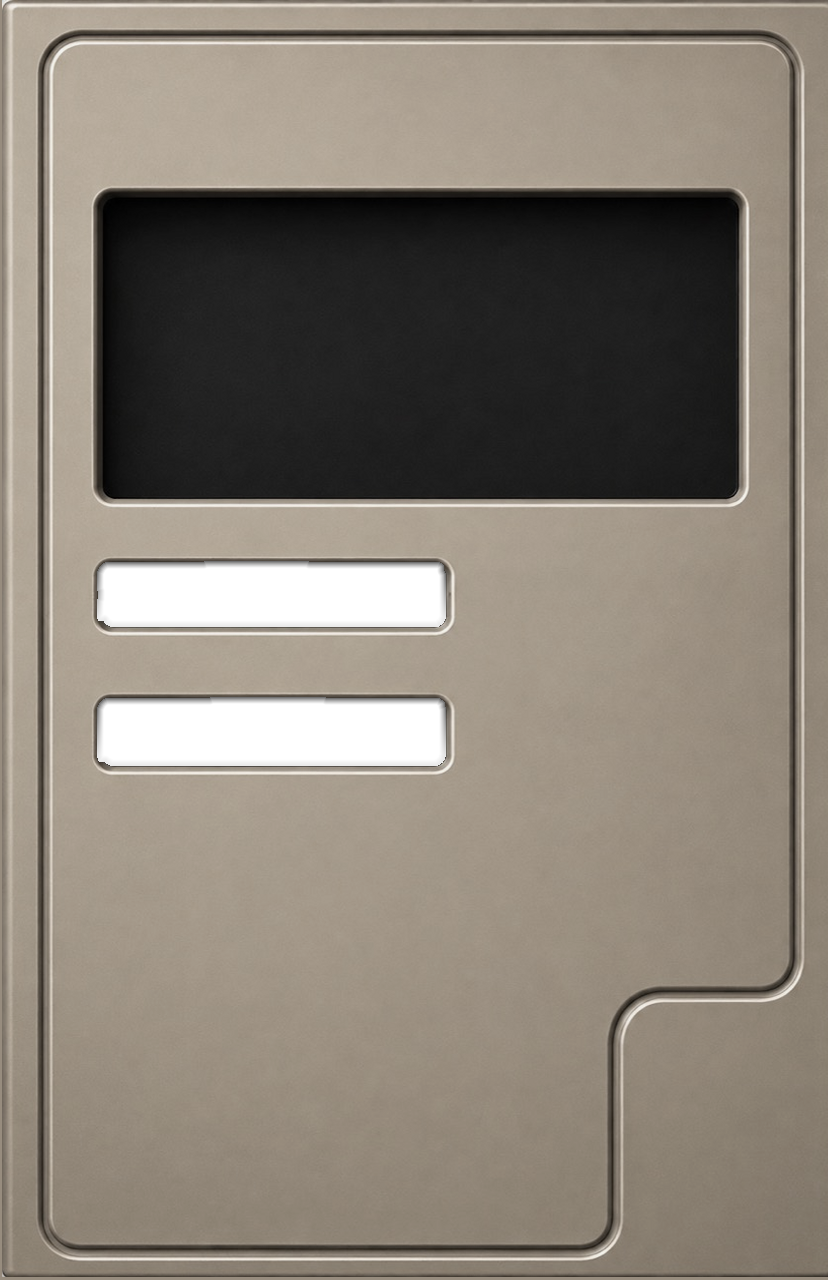
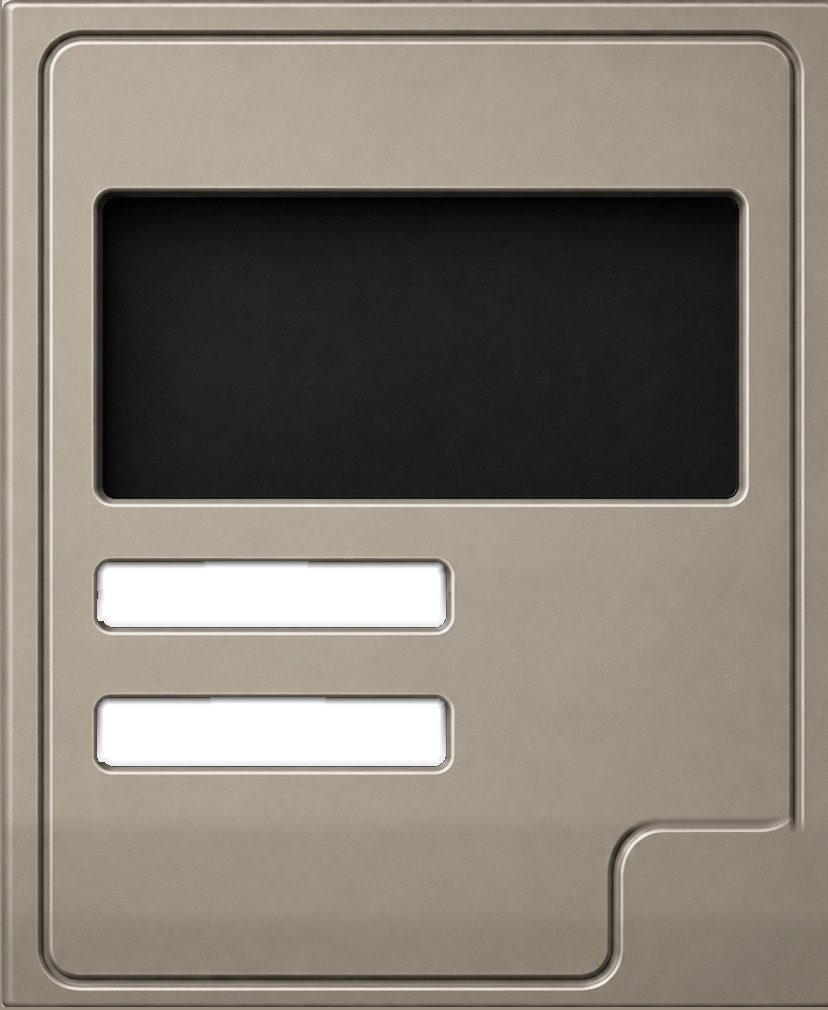
plugin face: structural reset - 352x429 on a spliced plate, COLOR row deleted, KEY reads OFF with the heard key offered, 1 px mint trace on the locked graticule, silver readouts, wheel lamp in the curve mint and no glow outside the recess, hierarchy reset; test knobs for strip/scale/morph
Claude-Session: https://claude.ai/code/session_011QgahbJmX6EjV1yznRqT2r

diff --git a/plugin/source/ui/GraphDisplay.h b/plugin/source/ui/GraphDisplay.h
@@ -173,25 +173,43 @@ public:
             juce::Path face = recessPath (glass, 0.0f);
             juce::Graphics::ScopedSaveState save (g);
             g.reduceClipRegion (face);
-            if (displayPlate.isNull())
-                displayPlate = juce::ImageCache::getFromMemory (BinaryData::display_bitmap4613_png,
-                                                                BinaryData::display_bitmap4613_pngSize);
+            {
+                juce::ColourGradient phosphorBed (juce::Colour (0xff0c1412), 0.0f, glass.getY(),
+                                                  juce::Colour (0xff050908), 0.0f, glass.getBottom(), false);
+                g.setGradientFill (phosphorBed);
+                g.fillRect (glass.expanded (1.0f));
+            }
+            if (gridPlate.isNull())
+                gridPlate = juce::ImageCache::getFromMemory (BinaryData::trench_display_grid_png,
+                                                             BinaryData::trench_display_grid_pngSize);
             {
                 juce::Graphics::ScopedSaveState samplingState (g);
                 g.setImageResamplingQuality (juce::Graphics::highResamplingQuality);
-                g.drawImage (displayPlate, glass.expanded (1.0f),
-                             juce::RectanglePlacement::stretchToFit, false);
+                g.setOpacity (0.12f);
+                g.drawImage (gridPlate, glass, juce::RectanglePlacement::stretchToFit, false);
             }
             {
                 juce::ColourGradient vig (juce::Colours::transparentBlack, glass.getCentreX(), glass.getCentreY(),
                                           juce::Colours::black.withAlpha (0.38f), glass.getX(), glass.getY(), true);
                 g.setGradientFill (vig);
                 g.fillRect (glass.expanded (1.0f));
-                juce::ColourGradient gloss (juce::Colours::white.withAlpha (0.13f), 0.0f, glass.getY(),
-                                            juce::Colours::transparentWhite, 0.0f, glass.getY() + glass.getHeight() * 0.42f, false);
-                gloss.addColour (0.55, juce::Colours::white.withAlpha (0.05f));
+                juce::ColourGradient lip (juce::Colours::black.withAlpha (0.62f), 0.0f, glass.getY(),
+                                          juce::Colours::transparentBlack, 0.0f, glass.getY() + 9.0f, false);
+                g.setGradientFill (lip);
+                g.fillRect (glass.withHeight (9.0f));
+                juce::ColourGradient lipL (juce::Colours::black.withAlpha (0.34f), glass.getX(), 0.0f,
+                                           juce::Colours::transparentBlack, glass.getX() + 6.0f, 0.0f, false);
+                g.setGradientFill (lipL);
+                g.fillRect (glass.withWidth (6.0f));
+                juce::ColourGradient lipR (juce::Colours::black.withAlpha (0.22f), glass.getRight(), 0.0f,
+                                           juce::Colours::transparentBlack, glass.getRight() - 5.0f, 0.0f, false);
+                g.setGradientFill (lipR);
+                g.fillRect (glass.withLeft (glass.getRight() - 5.0f));
+                juce::ColourGradient gloss (juce::Colours::white.withAlpha (0.17f), 0.0f, glass.getY(),
+                                            juce::Colours::transparentWhite, 0.0f, glass.getY() + glass.getHeight() * 0.34f, false);
+                gloss.addColour (0.45, juce::Colours::white.withAlpha (0.06f));
                 g.setGradientFill (gloss);
-                g.fillRect (glass.withHeight (glass.getHeight() * 0.42f));
+                g.fillRect (glass.withHeight (glass.getHeight() * 0.34f));
             }
             {
 
@@ -231,7 +249,7 @@ private:
 
     static juce::Path recessPath (juce::Rectangle<float> r, float e)
     {
-        constexpr float rTL = 5.5f, rTR = 2.8f, rBL = 4.3f, rBR = 4.7f;
+        constexpr float rTL = 1.3f, rTR = 1.3f, rBL = 1.3f, rBR = 1.3f;
         const float x0 = r.getX() - e, y0 = r.getY() - e;
         const float x1 = r.getRight() + e, y1 = r.getBottom() + e;
         const auto k = [e] (float rad) { return juce::jmax (0.5f, rad + e); };
@@ -380,7 +398,6 @@ private:
                               juce::PathStrokeType::butt });
     }
     Theme t;
-    mutable juce::Image displayPlate;
     mutable juce::Image gridPlate;
     juce::Path responsePath;
 

diff --git a/plugin/source/ui/Theme.h b/plugin/source/ui/Theme.h
@@ -4,8 +4,8 @@
 #include <cstdlib>
 namespace trench::ui
 {
-inline constexpr int   kEditorWidth        = 326;
-inline constexpr int   kEditorHeight       = 503;
+inline constexpr int   kEditorWidth        = 352;
+inline constexpr int   kEditorHeight       = 429;
 inline constexpr int   kEditorHeightClosed = 361;
 
 inline constexpr int   kBayValueWidth      = 46;
@@ -13,14 +13,14 @@ inline constexpr int   kBaySourceWidth     = 116;
 inline constexpr int   kBaySourceHeight    = 20;
 
 inline constexpr float kLabelPt            = 12.0f;
-inline constexpr float kValuePt            = 13.0f;
+inline constexpr float kValuePt            = 14.0f;
 inline constexpr int   kRowH               = 26;
 inline constexpr float kBayValuePt         = kValuePt;
 inline constexpr int   kBayValueHeight     = 18;
 
 inline constexpr float kBayKnobDiameter    = 32.0f;
 inline constexpr float kPanelSourceWidth   = 1010.0f;
-inline constexpr float kPanelSourceHeight  = 1557.0f;
+inline constexpr float kPanelSourceHeight  = 1232.0f;
 inline juce::Rectangle<float> sourceRectToEditor (juce::Rectangle<float> s)
 {
     return { s.getX() * kEditorWidth  / kPanelSourceWidth,
@@ -53,7 +53,7 @@ inline juce::Font displayFont (float height, bool emphasis = false)
                                           useSyntheticBold ? juce::Font::bold : juce::Font::plain));
 }
 inline constexpr float kPlateWordPt    = kLabelPt;
-inline constexpr float kMicroCaptionPt = 8.6f;
+inline constexpr float kMicroCaptionPt = 10.0f;
 inline juce::Font telemetryFont (float height, bool emphasis = false)
 {
 
@@ -63,7 +63,7 @@ struct Theme
 {
     const trench::UiLayout& layout;
     juce::Colour accent()      const { return layout.colour ("accent",      juce::Colour (0xff3cc8be)); }
-    juce::Colour curveColour() const { return layout.colour ("curveColour", juce::Colour (0xff3cc8be)); }
+    juce::Colour curveColour() const { return layout.colour ("curveColour", juce::Colour (0xffbef0d7)); }
     juce::Colour curveHighlight() const { return layout.colour ("curveHighlight", juce::Colour (0xffe6fff4)); }
     juce::Colour telemetry() const { return layout.colour ("telemetry", juce::Colour (0xff608074)); }
     juce::Colour rollerIllumination() const { return layout.colour ("rollerIllumination", juce::Colour (0xff3cc8be)); }
@@ -113,14 +113,14 @@ inline void drawFrostedGlassControl (juce::Graphics& g, juce::Rectangle<float> r
                                      float radius, bool isActive, const Theme& t)
 {
         const auto face = r.reduced (0.35f);
-    const auto top    = juce::Colour (0xffc3d1df);
-    const auto middle = juce::Colour (0xffb2c3d5);
-    const auto bottom = juce::Colour (0xffa5b8cc);
+    const auto top    = juce::Colour (0xffcbcdd0);
+    const auto middle = juce::Colour (0xffbabcbf);
+    const auto bottom = juce::Colour (0xffabadb0);
     const float faceRad = juce::jmax (2.0f, radius - 1.3f);
     {
-        juce::ColourGradient edge (juce::Colour (0xffe6eef6), 0.0f, face.getY(),
-                                   juce::Colour (0xff4f545a), 0.0f, face.getBottom(), false);
-        edge.addColour (0.5, juce::Colour (0xff9aabbd));
+        juce::ColourGradient edge (juce::Colour (0xffeceef0), 0.0f, face.getY(),
+                                   juce::Colour (0xff4f5255), 0.0f, face.getBottom(), false);
+        edge.addColour (0.5, juce::Colour (0xffa2a5a9));
         g.setGradientFill (edge);
         g.fillRoundedRectangle (face, faceRad);
     }

diff --git a/plugin/tests/PluginTests.cpp b/plugin/tests/PluginTests.cpp
@@ -4,7 +4,6 @@
 #include "TrenchBodyRoster.h"
 #include "dsp/PreampLaw.h"
 #include "ui/GlassWords.h"
-#include "ui/BayKnob.h"
 #include "ui/KeySnapBox.h"
 #include <juce_gui_basics/juce_gui_basics.h>
 #include <cmath>
@@ -224,7 +223,7 @@ int main()
                 int n = 0; trench::bodyRoster (n);
                 for (int i = 0; i < n; ++i)
                     if (trench::bodyDisplayName (i).containsIgnoreCase (std::getenv ("TRENCH_MEASURE"))) { setParam (processor, ParamID::body, (float) i); break; }
-                setParam (processor, ParamID::morph, 0.44f);
+                setParam (processor, ParamID::morph, std::getenv ("TRENCH_MORPH") != nullptr ? (float) std::atof (std::getenv ("TRENCH_MORPH")) : 0.44f);
             }
             else
                 setParam (processor, ParamID::body, (float) trench::kDefaultBodyIndex);
@@ -242,18 +241,19 @@ int main()
     check (editor->getWidth() == trench::ui::kEditorWidth && editor->getHeight() == trench::ui::kEditorHeight,
            "editor is at DAW size", editor->getWidth(), editor->getHeight());
     auto* words = findChild<trench::ui::GlassWords> (*editor);
-    auto* c1 = findChild<trench::ui::BayKnob> (*editor, "Color 1");
-    auto* c3 = findChild<trench::ui::BayKnob> (*editor, "Color 3");
     auto* keyBox = findChild<trench::ui::KeySnapBox> (*editor);
-    check (words != nullptr && c1 != nullptr && c3 != nullptr && keyBox != nullptr && keyBox->isShowing(), "Modulation chip, KEY box, three slots exist");
-    if (words == nullptr || c1 == nullptr || c3 == nullptr)
+    check (words != nullptr && keyBox != nullptr && keyBox->isShowing(), "Modulation chip and KEY box exist");
+    if (words == nullptr)
         return 1;
-    check (words->isShowing() && c1->isShowing() && c3->isShowing(), "Modulation, KEY, and the three slots are always on the face");
-    for (const char* gone : { "Input", "Bite", "Follow", "Movement", "Output", "Low", "Division", "Section", "Generator" })
+    check (words->isShowing(), "Modulation and KEY are always on the face");
+    for (const char* gone : { "Input", "Bite", "Follow", "Color 1", "Color 2", "Color 3", "Movement", "Output", "Low", "Division", "Section", "Generator" })
         check (! anyVisibleOfTitle (*editor, gone), (juce::String ("absent from the face: ") + gone).toRawUTF8());
-    check (c1->getHeight() >= 24 && words->getHeight() >= 18, "rows are legible", c1->getHeight(), words->getHeight());
+    check (words->getHeight() >= 18, "rows are legible", words->getHeight(), 18);
     pump (150);
-    savePng (holder.createComponentSnapshot (holder.getLocalBounds()), "trench_face_main.png");
+    {
+        const float shotScale = std::getenv ("TRENCH_SHOT_SCALE") != nullptr ? (float) std::atof (std::getenv ("TRENCH_SHOT_SCALE")) : 1.0f;
+        savePng (holder.createComponentSnapshot (holder.getLocalBounds(), true, juce::jmax (1.0f, shotScale)), "trench_face_main.png");
+    }
     setParam (processor, ParamID::movePreset, 1.0f);
     pump (150);
     savePng (holder.createComponentSnapshot (holder.getLocalBounds()), "trench_face_gen_on.png");

diff --git a/plugin/source/ui/KeySnapBox.h b/plugin/source/ui/KeySnapBox.h
@@ -18,8 +18,8 @@ public:
         setInterceptsMouseClicks (true, false);
         setMouseCursor (juce::MouseCursor::PointingHandCursor);
         setTitle ("Key Snap");
-        setHelpText ("AUTO: listens and applies the detected key live. Click to lock it; click the locked key to return to AUTO.");
-        setTooltip ("KEY is AUTO: the detected key is applied as it is heard. Click to lock, click again for AUTO");
+        setHelpText ("KEY OFF leaves the body as authored. A heard key is offered beside it; click it to lock, click the locked key to return to OFF.");
+        setTooltip ("KEY: OFF by default. Click the heard key to lock it; click again for OFF");
         if (param != nullptr)
             attachment = std::make_unique<juce::ParameterAttachment> (
                 *param, [this] (float) { repaint(); });
@@ -140,7 +140,7 @@ public:
             const auto ink = juce::Colour (0xff2a2722);
             const bool locked = currentChoice() != 0;
             const auto b = getLocalBounds().toFloat();
-            const auto bigFont   = displayFont (10.4f, false);
+            const auto bigFont   = displayFont (11.8f, false);
             const auto smallFont = displayFont (10.5f, false);
             compactAlt = {};
             float x = b.getRight();
@@ -156,23 +156,21 @@ public:
                 return box;
             };
 
-            if (locked)
             {
-
-                const auto text = shortChoiceText (currentChoice());
+                const auto text = locked ? shortChoiceText (currentChoice()) : juce::String ("OFF");
                 const auto box = valueBox (text, bigFont);
-
                 g.setFont (bigFont);
-                g.setColour (juce::Colour (0xff2a2722));
+                g.setColour (ink.withAlpha (locked ? 1.0f : 0.80f));
                 g.drawText (text, box.toNearestInt(), juce::Justification::centred, false);
             }
-            else if (showingSuggestion)
+            if (! locked && showingSuggestion)
             {
-
+                x -= 4.0f;
                 const auto text = shortSuggestionText (first);
                 const auto box = valueBox (text, bigFont);
+                compactAlt = box;
                 g.setFont (bigFont);
-                g.setColour (juce::Colours::black.withAlpha (hoveredCandidate >= 0 ? 0.95f : 0.55f));
+                g.setColour (ink.withAlpha (hoveredCandidate >= 0 ? 0.95f : 0.45f));
                 g.drawText (text, box.toNearestInt(), juce::Justification::centred, false);
             }
             g.setFont (t.smallLabel());
@@ -274,7 +272,7 @@ private:
         if (currentChoice() != 0 || suggestion (primarySuggestion) < 0)
             return -1;
         if (getHeight() < 26)
-            return ! compactAlt.isEmpty() && compactAlt.contains (point) ? 1 : 0;
+            return ! compactAlt.isEmpty() && compactAlt.contains (point) ? 0 : -1;
         if (juce::Rectangle<float> (8.0f, 11.0f, 33.0f, 26.0f).contains (point))
             return 0;
         if (juce::Rectangle<float> (47.0f, 12.0f, 33.0f, 25.0f).contains (point))

diff --git a/plugin/source/UiLayout.h b/plugin/source/UiLayout.h
@@ -24,29 +24,28 @@ public:
         layout.elements["qWheel"]       = { { 109.8f, 840.5f, 442.8f, 103.4f }, {}, {} };
         layout.elements["typeSelector"] = { { 230.0f, 139.0f, 666.6f, 68.0f },  {}, {} };
 
-        layout.elements["colorRow"]     = { { 126.9f, 978.1f, 769.7f, 247.6f }, {}, {} };
         layout.elements["keyBox"]       = { { 551.6f, 65.0f, 345.0f, 62.0f }, {}, {} };
 
-        layout.elements["morphReadout"] = { { 574.6f, 697.0f, 142.5f, 55.7f },  12.0f, juce::Colour (0xff2a2722) };
-        layout.elements["qReadout"]     = { { 574.6f, 864.3f, 142.5f, 55.7f },  12.0f, juce::Colour (0xff2a2722) };
+        layout.elements["morphReadout"] = { { 574.6f, 697.0f, 142.5f, 55.7f },  17.0f, juce::Colour (0xff2a2722) };
+        layout.elements["qReadout"]     = { { 574.6f, 864.3f, 142.5f, 55.7f },  17.0f, juce::Colour (0xff2a2722) };
 
-        layout.elements["spectrumGrid"] = { { 126.9f, 227.8f, 769.7f, 383.7f }, {}, {} };
+        layout.elements["spectrumGrid"] = { { 126.9f, 232.3f, 769.7f, 374.7f }, {}, {} };
 
-        layout.elements["typeLabel"]    = { { 126.9f, 139.0f, 97.0f, 68.0f },  15.0f, juce::Colour (0xff2a2722) };
+        layout.elements["typeLabel"]    = { { 126.9f, 139.0f, 97.0f, 68.0f },  14.5f, juce::Colour (0xff2a2722) };
         layout.elements["typeLabel"].text = "BODY";
 
-        layout.elements["typeName"]     = { { 244.0f, 143.0f, 522.0f, 64.0f },  18.0f, juce::Colour (0xff2a2722) };
+        layout.elements["typeName"]     = { { 244.0f, 143.0f, 522.0f, 64.0f },  20.0f, juce::Colour (0xff2a2722) };
         layout.elements["typeArrow"]    = { { 841.6f, 143.0f, 52.0f,  64.0f },  {}, {} };
-        layout.elements["morphLabel"]   = { { 109.8f, 640.0f, 442.8f, 38.0f },  17.0f, juce::Colour (0xff2a2722) };
+        layout.elements["morphLabel"]   = { { 109.8f, 640.0f, 442.8f, 38.0f },  14.5f, juce::Colour (0xff2a2722) };
         layout.elements["morphLabel"].text = "MORPH";
-        layout.elements["qLabel"]       = { { 109.8f, 798.0f, 442.8f, 38.0f },  17.0f, juce::Colour (0xff2a2722) };
+        layout.elements["qLabel"]       = { { 109.8f, 798.0f, 442.8f, 38.0f },  14.5f, juce::Colour (0xff2a2722) };
         layout.elements["qLabel"].text = "Q";
 
-        layout.elements["brandLabel"]   = { { 126.9f, 73.0f, 230.0f, 44.0f }, 18.5f, juce::Colour (0xff0f0c09) };
+        layout.elements["brandLabel"]   = { { 126.9f, 73.0f, 230.0f, 44.0f }, 24.0f, juce::Colour (0xff0f0c09) };
 
         layout.elements["brandLabel"].text = "TRENCH";
         layout.colours["accent"]             = juce::Colour (0xff3cc8be);
-        layout.colours["curveColour"]        = juce::Colour (0xff3cc8be);
+        layout.colours["curveColour"]        = juce::Colour (0xffbef0d7);
         layout.colours["curveHighlight"]     = juce::Colour (0xffe6fff4);
         layout.colours["telemetry"]          = juce::Colour (0xff608074);
         layout.colours["dashed"]             = juce::Colour (0xff608074);

diff --git a/plugin/source/PluginEditor.cpp b/plugin/source/PluginEditor.cpp
@@ -1,4 +1,5 @@
 #include "PluginEditor.h"
+#include <cstdlib>
 #include "BinaryData.h"
 #include "TrenchBodyRoster.h"
 using namespace trench::ui;
@@ -29,6 +30,8 @@ PluginEditor::PluginEditor (PluginProcessor& p)
                                                   BinaryData::df2_panel_beige_pngSize);
     auto strip = juce::ImageCache::getFromMemory (BinaryData::trench_roller_strip_png,
                                                   BinaryData::trench_roller_strip_pngSize);
+    if (const char* override = std::getenv ("TRENCH_WHEEL_STRIP"))
+        strip = juce::ImageFileFormat::loadFrom (juce::File (juce::String::fromUTF8 (override)));
     faceplate = std::make_unique<FaceplateView> (panel, theme);
     faceplate->setBufferedToImage (true);
     graph = std::make_unique<GraphDisplay> (theme, processor.apvts, juce::String());
@@ -54,9 +57,6 @@ PluginEditor::PluginEditor (PluginProcessor& p)
     secondaryReadout = std::make_unique<ValueReadout> ("qReadout", theme);
     morphReadout->bindParameter (processor.apvts.getParameter (ParamID::morph));
     secondaryReadout->bindParameter (processor.apvts.getParameter (ParamID::q));
-    colorKnobs[0] = std::make_unique<BayKnob> (processor.apvts, theme, ParamID::chew, "Color 1");
-    colorKnobs[1] = std::make_unique<BayKnob> (processor.apvts, theme, ParamID::envAmount, "Color 2");
-    colorKnobs[2] = std::make_unique<BayKnob> (processor.apvts, theme, ParamID::track, "Color 3");
     glassWords = std::make_unique<GlassWords> (theme);
     keySnapBox = std::make_unique<KeySnapBox> (processor.apvts, theme);
     keySnapBox->setSuggestionProviders (
@@ -117,7 +117,6 @@ PluginEditor::PluginEditor (PluginProcessor& p)
     addAndMakeVisible (*secondaryReadout);
     addAndMakeVisible (*glassWords);
     addAndMakeVisible (*keySnapBox);
-    for (auto& k : colorKnobs) addAndMakeVisible (*k);
     addAndMakeVisible (*labels);
     addChildComponent (*bodyBrowser);
     setResizable (false, false);
@@ -149,11 +148,6 @@ void PluginEditor::resized()
     {
         const auto key = rectOf ("keyBox");
         keySnapBox->setBounds (key.getX(), key.getCentreY() - 11, key.getWidth(), 22);
-    }
-    {
-        const auto row = rectOf ("colorRow");
-        for (int i = 0; i < 3; ++i)
-            colorKnobs[(size_t) i]->setBounds (row.getX() + row.getWidth() * i / 3, row.getY(), row.getWidth() / 3, row.getHeight());
     }
 }
 void PluginEditor::onFrame()

diff --git a/plugin/source/PluginEditor.h b/plugin/source/PluginEditor.h
@@ -9,7 +9,6 @@
 #include "ui/TypeSelectorView.h"
 #include "ui/BodyBrowser.h"
 #include "ui/GlassWords.h"
-#include "ui/BayKnob.h"
 #include "ui/KeySnapBox.h"
 #include "ui/LabelsLayer.h"
 #include <juce_audio_processors/juce_audio_processors.h>
@@ -39,7 +38,6 @@ private:
     std::unique_ptr<trench::ui::BodyBrowser>      bodyBrowser;
     std::unique_ptr<trench::ui::GlassWords>       glassWords;
     std::unique_ptr<trench::ui::KeySnapBox>       keySnapBox;
-    std::unique_ptr<trench::ui::BayKnob>          colorKnobs[3];
     std::unique_ptr<trench::ui::WheelControl>     morphWheel;
     std::unique_ptr<trench::ui::WheelControl>     secondaryWheel;
     std::unique_ptr<trench::ui::ValueReadout>     morphReadout;

diff --git a/plugin/source/ui/GlassWords.h b/plugin/source/ui/GlassWords.h
@@ -41,6 +41,12 @@ public:
         g.setFont (displayFont (kLabelPt, false));
         g.setColour (ink.withAlpha (0.55f));
         const juce::Rectangle<float> lamp { (float) b.getX() + 1.0f, (float) b.getCentreY() - 2.5f, 5.0f, 5.0f };
+        if (! active && ! hover && preset == "OFF")
+        {
+            g.setColour (ink.withAlpha (0.30f));
+            g.fillEllipse (lamp);
+            return;
+        }
         g.setColour (active ? t.modulationLamp() : ink.withAlpha (hover ? 0.80f : 0.45f));
         g.fillEllipse (lamp);
         if (hover)

diff --git a/plugin/NEXT_SESSION.md b/plugin/NEXT_SESSION.md
@@ -1,7 +1,7 @@
 # TRENCH plugin - next session brief (2026-08-29 wrap)
 
 ## State
-- Face: BODY, glass (Modulation chip), MORPH, Q, COLOR 1/2/3 (bound to bite/follow/track - audio-dead), KEY picker top-right. UI is NOT ship-ready (Tyson).
+- Face (2026-08-30 structural reset): 352x429 fixed. BODY, glass (locked 6x log graticule, 1 px mint X3 trace, legend dot only while Modulation is OFF), MORPH, Q (SS3 master body, lamp re-laid in the curve mint, no glow outside the recess), KEY = OFF with the heard key offered beside it. COLOR placeholders deleted. Plate spliced short (notch kept 22 px under Q). Test knobs: TRENCH_WHEEL_STRIP, TRENCH_SHOT_SCALE, TRENCH_MORPH.
 - Audio path today: y = 1.6107 * H(body, morph, q, key) * x. Hidden INPUT/OUTPUT/LOW are forced neutral in processChunk while off the face. No ceiling is executed.
 - KEY: choice 0 = OFF; 1..12 minor C..B, 13..24 major. Bridge transposes the interpolated cascade by the root's distance from C (authored key assumed C - bodies carry no key). Test: F# shifts Crisp by -5.5 dB at 220 Hz.
 - Bridge must call encode_cascade before CascadeRunner::set_target (runner is in the encoded domain since 072bc86; Cascade and EncodedCascade are the same array type, so a raw cascade compiles and produces garbage).
